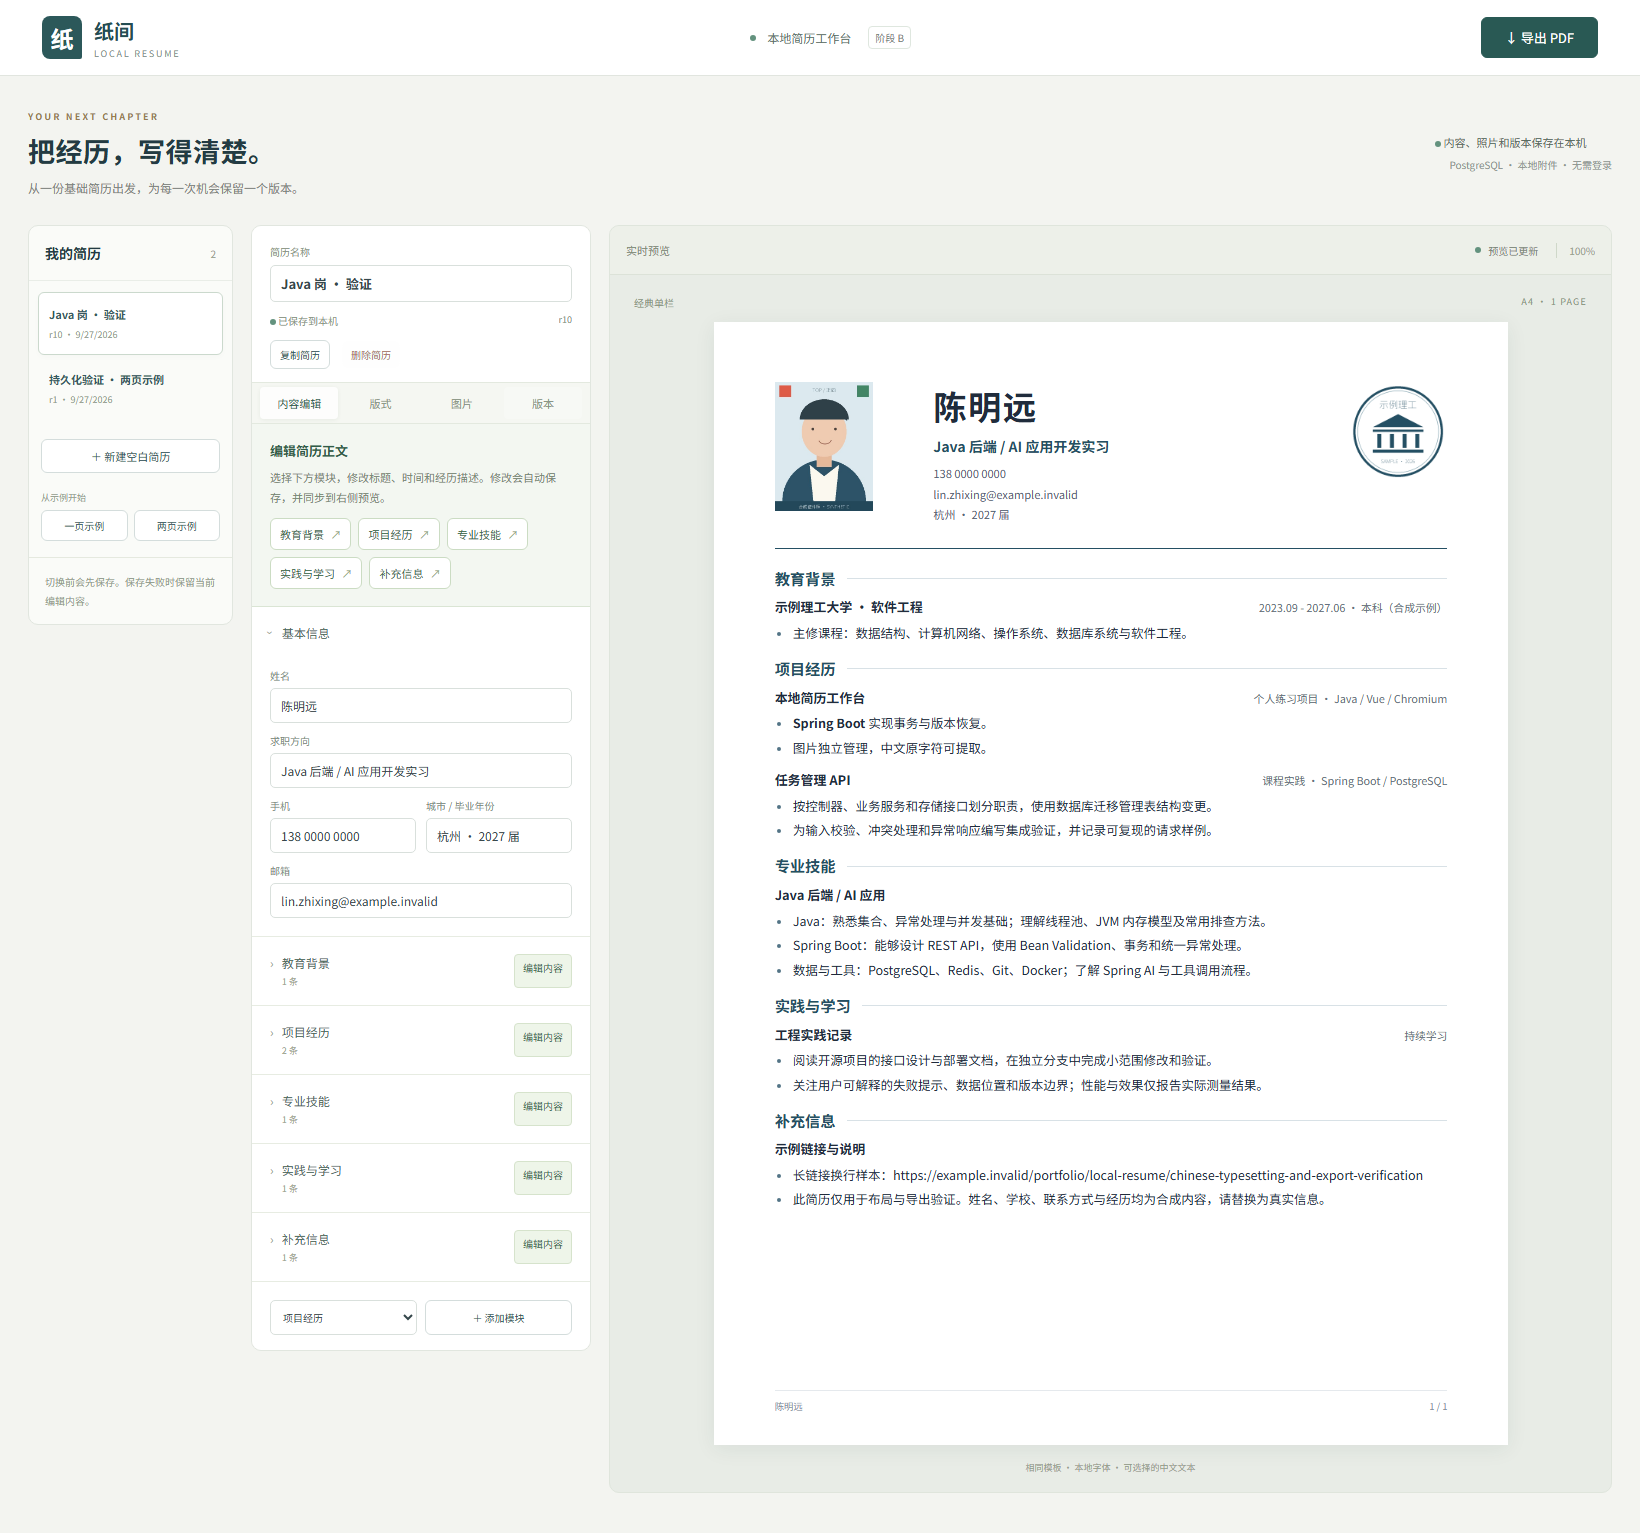
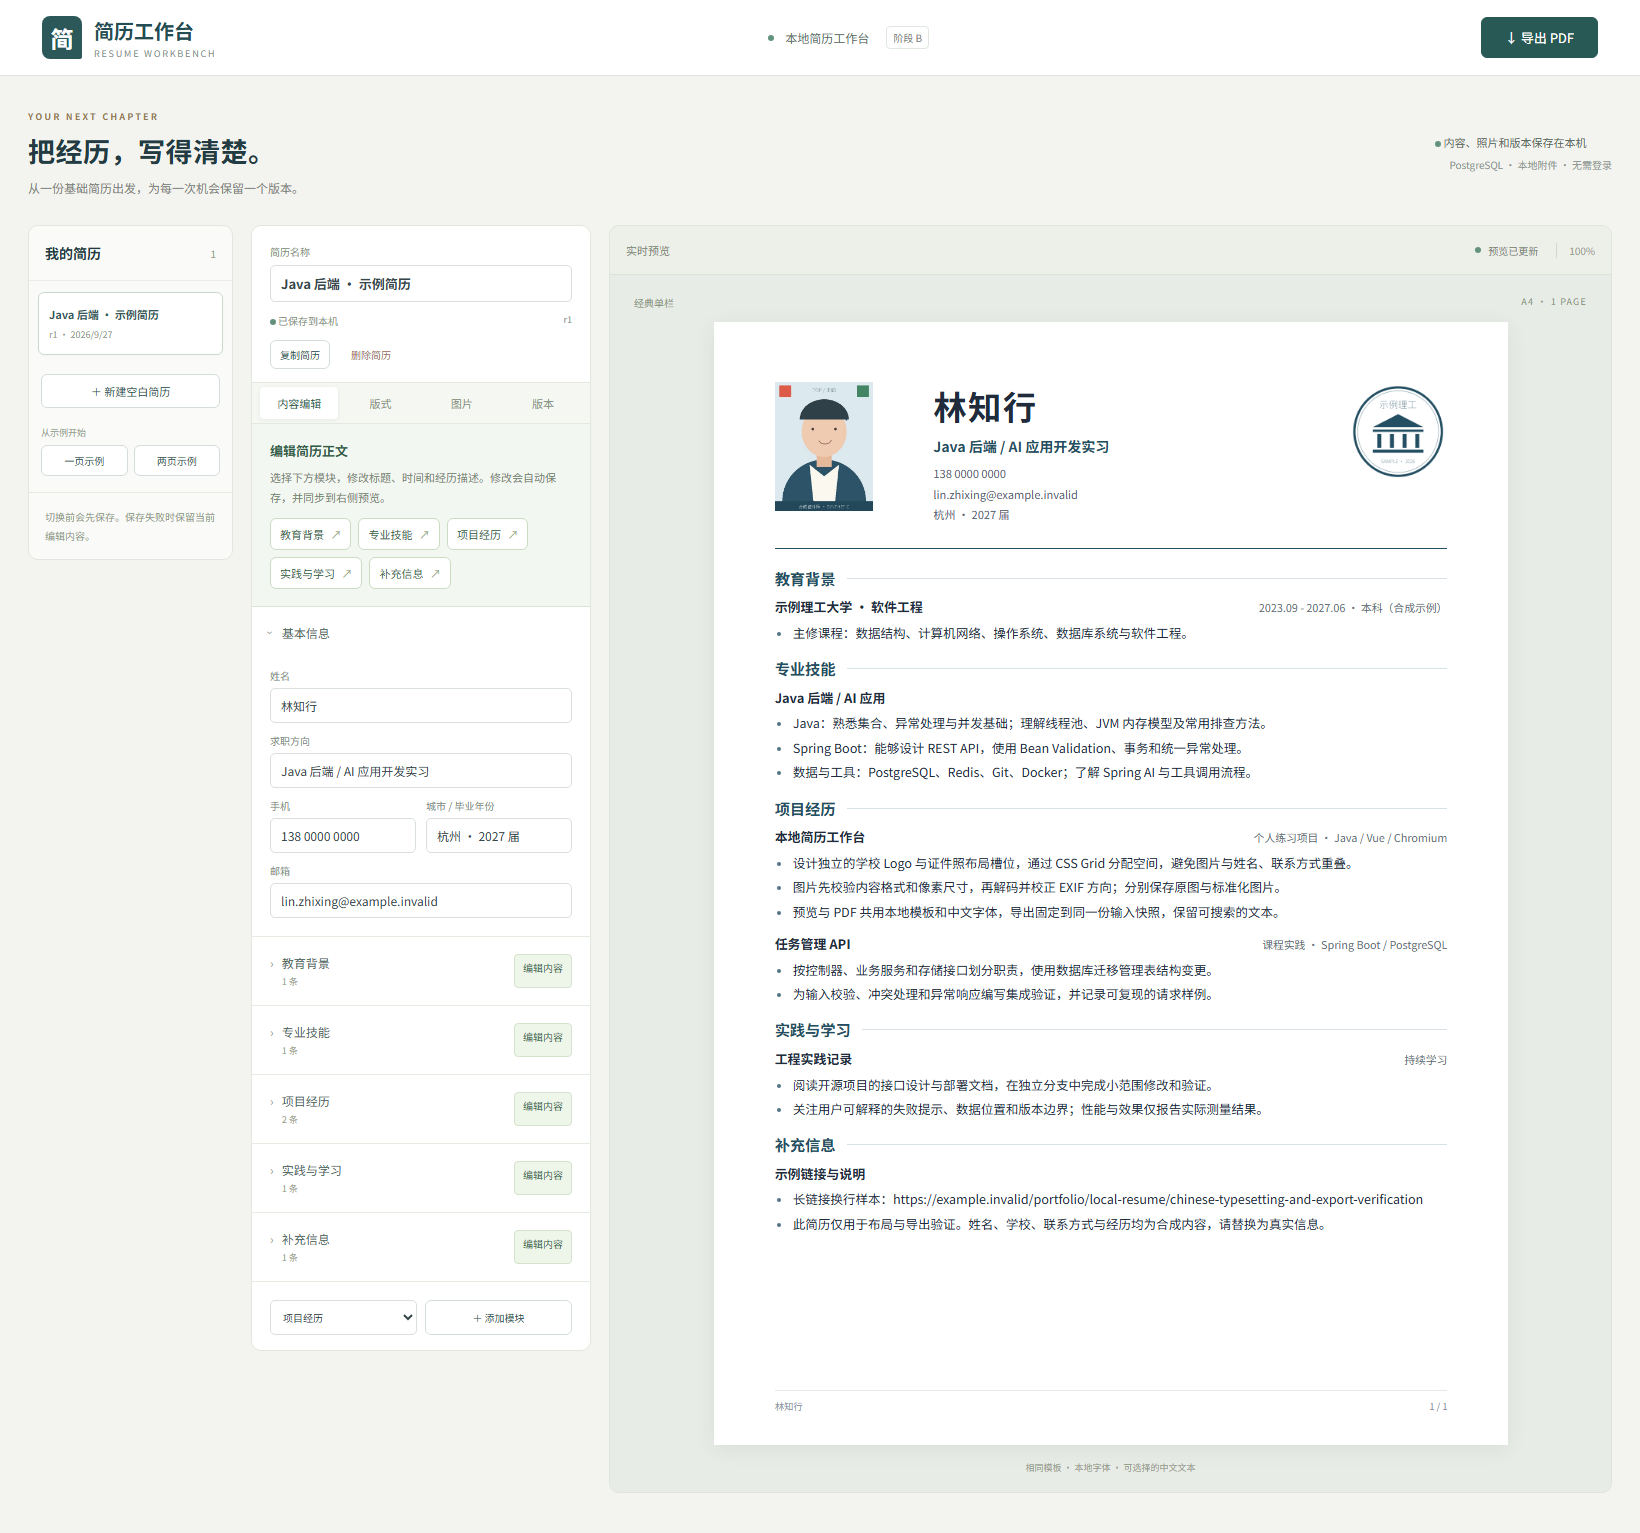
chore: name the project Resume Workbench

diff --git a/frontend/src/App.vue b/frontend/src/App.vue
@@ -38,7 +38,7 @@ async function restore(version:Version){await ws.flush();if(!current.value)retur
 async function exportPdf(){
  await ws.flush();if(!current.value)return;
  exported.value=await api(`/api/resumes/${current.value.id}/export`,{expectedRevision:current.value.revision});
- const a=window.document.createElement('a');a.href='/api/exports/'+exported.value!.id+'/pdf';a.download='local-resume.pdf';a.click();if(tab.value==='versions')await loadVersions();
+ const a=window.document.createElement('a');a.href='/api/exports/'+exported.value!.id+'/pdf';a.download='resume-workbench.pdf';a.click();if(tab.value==='versions')await loadVersions();
 }
 function deleteResume(){if(confirm('删除当前简历及其历史版本？本地图片文件会保留。'))void action(ws.remove);}
 function reloadCurrent(){if(!dirty.value||confirm('重新载入会放弃当前页面尚未保存的修改。继续吗？'))void action(ws.reloadCurrent);}
@@ -52,7 +52,7 @@ onUnmounted(()=>{observer?.disconnect();clearTimeout(previewTimer);ws.dispose();
 </script>
 <template>
  <div class="workbench">
-  <header class="app-header"><a class="brand" href="/"><span class="brand-mark">纸</span><span>纸间<span class="brand-en">LOCAL RESUME</span></span></a><div class="header-middle"><span class="local-dot"></span>本地简历工作台<span class="stage-badge">阶段 B</span></div><button class="primary export-button" :disabled="busy||!current" @click="action(exportPdf)">{{busy?'正在处理…':'↓ 导出 PDF'}}</button></header>
+  <header class="app-header"><a class="brand" href="/"><span class="brand-mark">简</span><span>简历工作台<span class="brand-en">RESUME WORKBENCH</span></span></a><div class="header-middle"><span class="local-dot"></span>本地简历工作台<span class="stage-badge">阶段 B</span></div><button class="primary export-button" :disabled="busy||!current" @click="action(exportPdf)">{{busy?'正在处理…':'↓ 导出 PDF'}}</button></header>
   <div class="workspace-heading"><div><div class="eyebrow">YOUR NEXT CHAPTER</div><h1>把经历，写得清楚。</h1><p>从一份基础简历出发，为每一次机会保留一个版本。</p></div><div class="privacy-note"><span class="local-dot"></span>内容、照片和版本保存在本机<br><small>PostgreSQL · 本地附件 · 无需登录</small></div></div>
   <div v-if="problem" class="global-notice error" role="alert">{{problem}}<button class="text-button" @click="problem=''">收起提示</button></div>
   <div class="workspace-grid workspace-b">

diff --git a/frontend/index.html b/frontend/index.html
@@ -1,1 +1,1 @@
-<!doctype html><html lang="zh-CN"><head><meta charset="UTF-8"><meta name="viewport" content="width=device-width, initial-scale=1.0"><meta name="theme-color" content="#224f60"><title>纸间 · 本地简历工作台</title></head><body><div id="app"></div><script type="module" src="/src/main.ts"></script></body></html>
+<!doctype html><html lang="zh-CN"><head><meta charset="UTF-8"><meta name="viewport" content="width=device-width, initial-scale=1.0"><meta name="theme-color" content="#224f60"><title>Resume Workbench · 简历工作台</title></head><body><div id="app"></div><script type="module" src="/src/main.ts"></script></body></html>

diff --git a/src/main/java/dev/localresume/WorkbenchController.java b/src/main/java/dev/localresume/WorkbenchController.java
@@ -44,6 +44,6 @@ public class WorkbenchController {
     }
     @GetMapping("/api/exports/{id}/pdf") public ResponseEntity<byte[]> pdf(@PathVariable String id) throws java.io.IOException {
         return ResponseEntity.ok().contentType(MediaType.APPLICATION_PDF).cacheControl(CacheControl.noStore())
-            .header(HttpHeaders.CONTENT_DISPOSITION, "attachment; filename=local-resume.pdf").body(exports.read(id));
+            .header(HttpHeaders.CONTENT_DISPOSITION, "attachment; filename=resume-workbench.pdf").body(exports.read(id));
     }
 }

diff --git a/README.md b/README.md
@@ -1,4 +1,4 @@
-# 纸间 · Local Resume
+# Resume Workbench · 简历工作台
 
 面向中文技术求职者的本地简历工作台。阶段 B 已实现结构化编辑、可靠自动保存、独立学校 Logo / 证件照、两个模板、中文 PDF、简历复制和版本恢复。
 
@@ -22,6 +22,8 @@
 需要 JDK 21、Node.js 22.12+、npm 和正在运行的 Docker Desktop。Maven Wrapper 固定 Maven 3.9.16；首次准备依赖和浏览器需要联网，应用运行使用项目内的字体。
 
 ```powershell
+git clone https://github.com/MoChiUaena/resume-workbench.git
+cd resume-workbench
 ./scripts/start.ps1 -JavaHome '你的 JDK 21 目录'
 ```
 
@@ -113,4 +115,4 @@ JDK 21 / Spring Boot 3.5.16 / PostgreSQL 16.10 / Flyway / Playwright Java 1.63.0
 - 分页按条目 / 段落边界切分，最多 10 页；超长单条内容会拒绝导出。不是通用文字处理器，也不提供任意画布。
 - 黑体和宋体均本地嵌入，修复共享字形的 Unicode 反向映射；不承诺所有 ATS 系统兼容。
 
-字体、来源散列与许可见 [THIRD_PARTY_NOTICES.md](THIRD_PARTY_NOTICES.md)。原创代码与合成样本采用 MIT。当前没有远端发布镜像或 GitHub 发布。
+字体、来源散列与许可见 [THIRD_PARTY_NOTICES.md](THIRD_PARTY_NOTICES.md)。原创代码与合成样本采用 MIT。当前提供阶段 A/B 的源码开发版，发布镜像和正式版本尚未交付。
